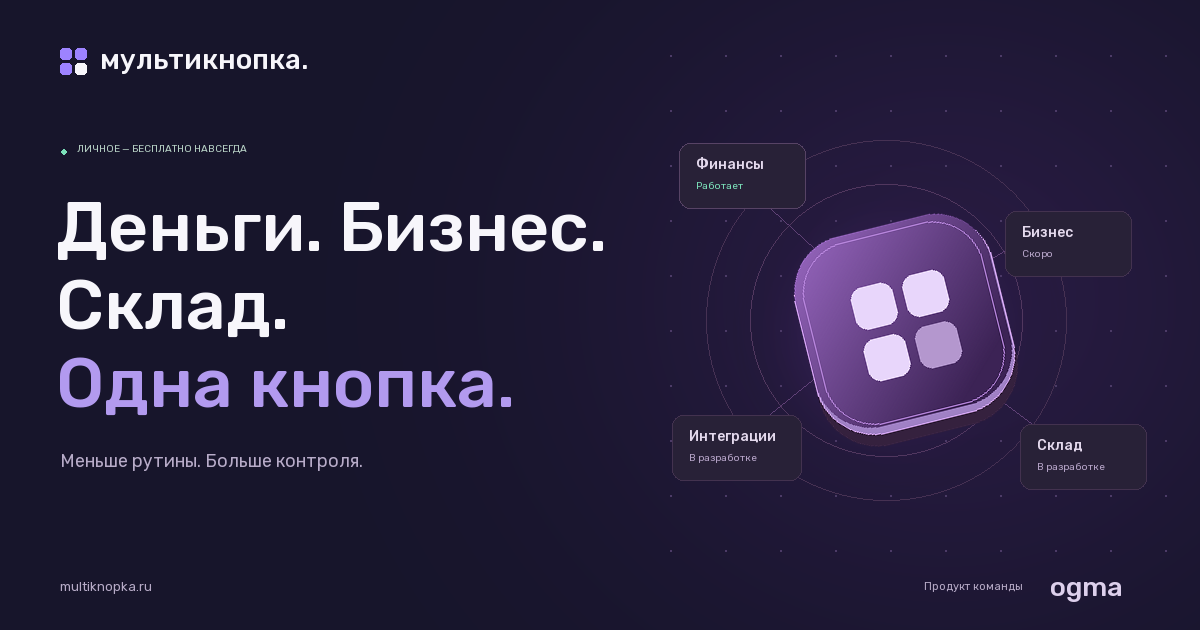
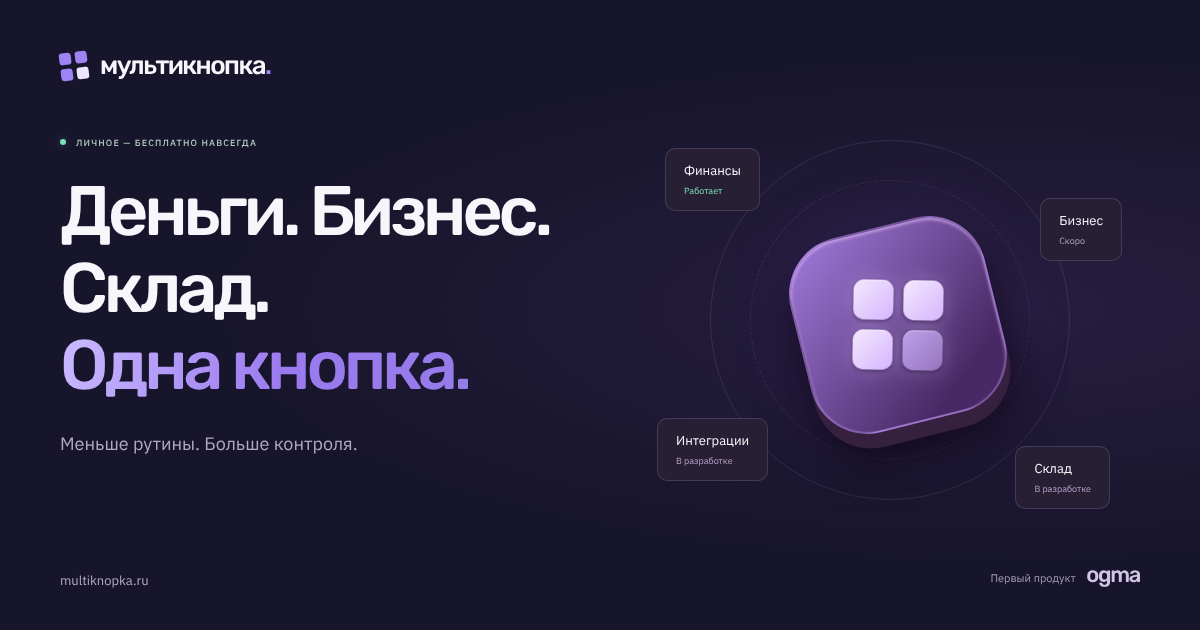
Landing: present ogma as an independent developer
Replace team wording in the about section, hero footer and OG preview;
re-render og-image.png from og-preview.html.

Claude-Session: https://claude.ai/code/session_01R25mVCRtxksPfVrzzfMGmW

diff --git a/landing/index.html b/landing/index.html
@@ -64,7 +64,7 @@
           <p class="core-feedback sr-only" role="status"></p>
         </div>
       </div>
-      <div class="container hero-bottom"><span>ПЕРВЫЙ ПРОДУКТ КОМАНДЫ <a href="#about">ogma <span aria-hidden="true">↗</span></a></span><a href="#problem" class="scroll-cue">Знакомимся ближе <span aria-hidden="true">↓</span></a><span class="hero-index" aria-hidden="true">01 — 10</span></div>
+      <div class="container hero-bottom"><span>ПЕРВЫЙ ПРОДУКТ <a href="#about">ogma <span aria-hidden="true">↗</span></a></span><a href="#problem" class="scroll-cue">Знакомимся ближе <span aria-hidden="true">↓</span></a><span class="hero-index" aria-hidden="true">01 — 10</span></div>
     </section>
 
     <section id="problem" class="section problem-section" aria-labelledby="problem-title">
@@ -133,7 +133,7 @@
 
     <section id="roadmap" class="section roadmap-section" aria-labelledby="roadmap-title"><div class="container"><div class="roadmap-heading reveal"><div><p class="eyebrow"><span class="section-number">07 /</span> ЧТО ДАЛЬШЕ</p><h2 id="roadmap-title">Большая идея.<br>Понятные шаги.</h2></div><p>Строим постепенно. Показываем честно.<br>Без обещаний с выдуманными датами.</p></div><ol class="roadmap"><li class="roadmap-item is-current reveal"><div class="roadmap-point"><span></span><b>Сейчас</b></div><span class="status status-live"><i></i> Работает</span><h3>Личные финансы</h3><p>Доходы, расходы, бюджеты, аналитика. Импорт скриншотов, PWA и офлайн.</p></li><li class="roadmap-item reveal"><div class="roadmap-point"><span></span><b>Скоро</b></div><span class="status status-soon">Скоро</span><h3>Меньше ручного ввода</h3><p>Уведомления банков на Android, выписки файлом, Telegram-бот. Запуск Бизнеса.</p></li><li class="roadmap-item reveal"><div class="roadmap-point"><span></span><b>Далее</b></div><span class="status">В разработке</span><h3>Связанные процессы</h3><p>Склад, маркетплейсы, банки, кассы, «Мой налог» и экспорт в 1С.</p></li><li class="roadmap-item reveal"><div class="roadmap-point"><span></span><b>Потом</b></div><span class="status">В планах</span><h3>Приложения в магазинах</h3><p>Android и iOS. Публикация в RuStore, Google Play и App Store.</p></li></ol></div></section>
 
-    <section id="about" class="section about-section" aria-labelledby="about-title" itemscope itemtype="https://schema.org/Organization"><meta itemprop="name" content="ogma"><meta itemprop="email" content="hello@multiknopka.ru"><meta itemprop="url" content="https://multiknopka.ru/"><div class="container about-layout"><div class="ogma-art reveal" aria-hidden="true"><span class="ogma-orbit"></span><span class="ogma-word">ogma<span>↗</span></span><span class="ogma-caption">МЕНЬШЕ РУТИНЫ. БОЛЬШЕ ЖИЗНИ.</span></div><div class="about-copy reveal"><p class="eyebrow"><span class="section-number">08 /</span> ЗА КНОПКОЙ — ЛЮДИ</p><h2 id="about-title">Технологии должны<br>упрощать жизнь.</h2><p itemprop="description">Мы — ogma, небольшая российская команда. Делаем цифровые продукты, которые берут рутину на себя и освобождают время для важного.</p><p>Мультикнопка — наш первый и главный продукт. Начинаем с личных финансов и шаг за шагом собираем единую платформу для жизни и бизнеса.</p><div class="founder" itemprop="founder" itemscope itemtype="https://schema.org/Person"><span class="founder-avatar" aria-hidden="true">ДБ</span><div><strong itemprop="name">Дмитрий Барышников</strong><span>Основатель ogma и разработчик</span></div></div></div></div></section>
+    <section id="about" class="section about-section" aria-labelledby="about-title" itemscope itemtype="https://schema.org/Organization"><meta itemprop="name" content="ogma"><meta itemprop="email" content="hello@multiknopka.ru"><meta itemprop="url" content="https://multiknopka.ru/"><div class="container about-layout"><div class="ogma-art reveal" aria-hidden="true"><span class="ogma-orbit"></span><span class="ogma-word">ogma<span>↗</span></span><span class="ogma-caption">МЕНЬШЕ РУТИНЫ. БОЛЬШЕ ЖИЗНИ.</span></div><div class="about-copy reveal"><p class="eyebrow"><span class="section-number">08 /</span> ЗА КНОПКОЙ — ЧЕЛОВЕК</p><h2 id="about-title">Технологии должны<br>упрощать жизнь.</h2><p itemprop="description">ogma — это я, Дмитрий Барышников, независимый разработчик из России. Делаю цифровые продукты, которые берут рутину на себя и освобождают время для важного.</p><p>Мультикнопка — мой первый и главный продукт. Начинаю с личных финансов и шаг за шагом собираю единую платформу для жизни и бизнеса.</p><div class="founder" itemprop="founder" itemscope itemtype="https://schema.org/Person"><span class="founder-avatar" aria-hidden="true">ДБ</span><div><strong itemprop="name">Дмитрий Барышников</strong><span>Независимый разработчик, основатель ogma</span></div></div></div></div></section>
 
     <section class="final-section" aria-labelledby="final-title"><div class="final-glow" aria-hidden="true"></div><div class="container final-content reveal"><span class="eyebrow">09 / НАЧНИТЕ С ОДНОГО НАЖАТИЯ</span><h2 id="final-title">Меньше рутины.<br><span class="gradient-text">Больше жизни.</span></h2><p>Пусть деньги будут под контролем.<br>А вы — займитесь тем, что любите.</p><a class="button button-primary magnetic" href="https://app.multiknopka.ru">Открыть Мультикнопку <svg class="icon" aria-hidden="true"><use href="assets/icons.svg#arrow-up-right"></use></svg></a><span class="final-note">Личное — бесплатно навсегда.</span></div></section>
   </main>

diff --git a/landing/og-preview.html b/landing/og-preview.html
@@ -16,7 +16,7 @@
     <h1>Деньги. Бизнес.<br>Склад.<br><span class="gradient-text">Одна кнопка.</span></h1>
     <p class="og-description">Меньше рутины. Больше контроля.</p>
     <div class="og-visual" aria-hidden="true"><div class="og-ring"></div><div class="og-ring second"></div><div class="og-core"><span class="core-symbol"><i></i><i></i><i></i><i></i></span></div><span class="og-finance">Финансы <small>Работает</small></span><span class="og-business">Бизнес <small>Скоро</small></span><span class="og-stock">Склад <small>В разработке</small></span><span class="og-connect">Интеграции <small>В разработке</small></span></div>
-    <span class="og-footer">multiknopka.ru</span><span class="og-author">Первый продукт команды <b>ogma</b></span>
+    <span class="og-footer">multiknopka.ru</span><span class="og-author">Первый продукт <b>ogma</b></span>
   </main>
 </body>
 </html>

diff --git a/docs/prompts/landing-chatgpt.md b/docs/prompts/landing-chatgpt.md
@@ -1,7 +1,7 @@
 Ты — ведущий веб-дизайнер и фронтенд-разработчик уровня Awwwards. Сделай лендинг для продукта «Мультикнопка» (multiknopka.ru) и его разработчика — компании ogma.
 
 ## Кто мы
-ogma — небольшая российская команда, которая делает инновационные цифровые продукты, чтобы упрощать жизнь людей и автоматизировать рутину. Разработчик и основатель — Дмитрий Барышников.
+ogma — независимый российский разработчик, который делает инновационные цифровые продукты, чтобы упрощать жизнь людей и автоматизировать рутину. Разработчик и основатель — Дмитрий Барышников.
 Первый и главный продукт — «Мультикнопка»: одна платформа, где за одной кнопкой собраны личные финансы, учёт бизнеса, склад и подключения к маркетплейсам и банкам. Идея названия: «нажал одну кнопку — и всё под контролем».
 
 ## Продукты (цепочка развития — показать как единую экосистему)
